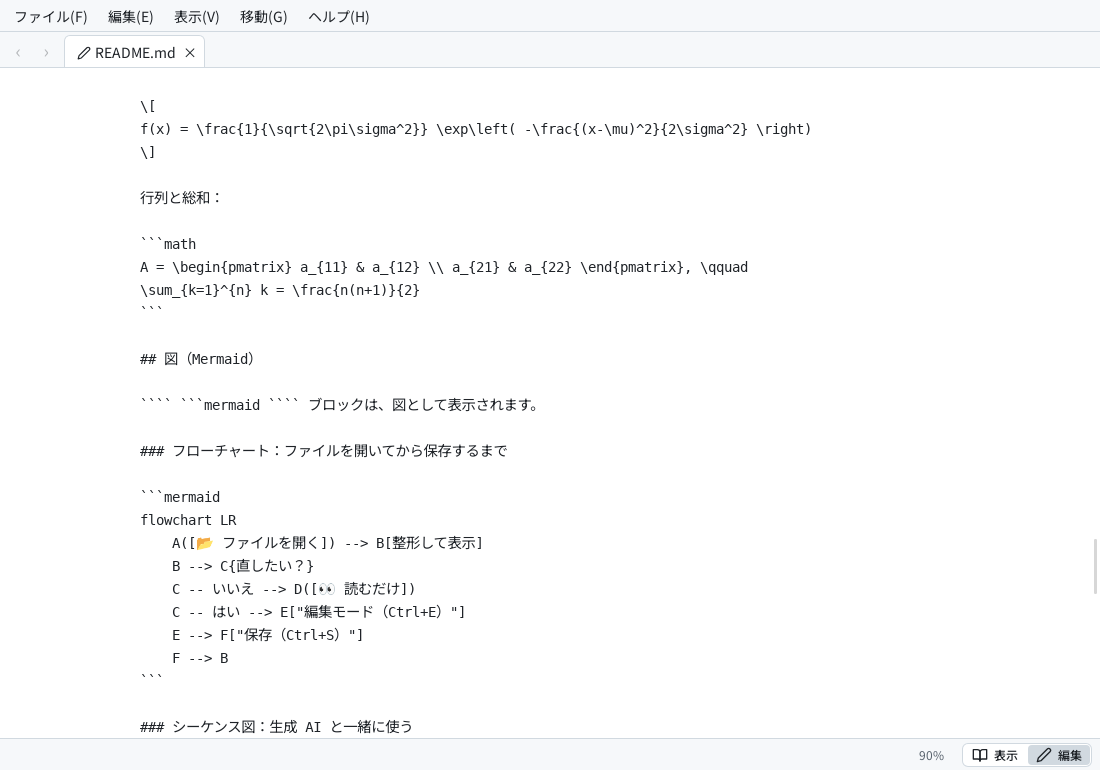
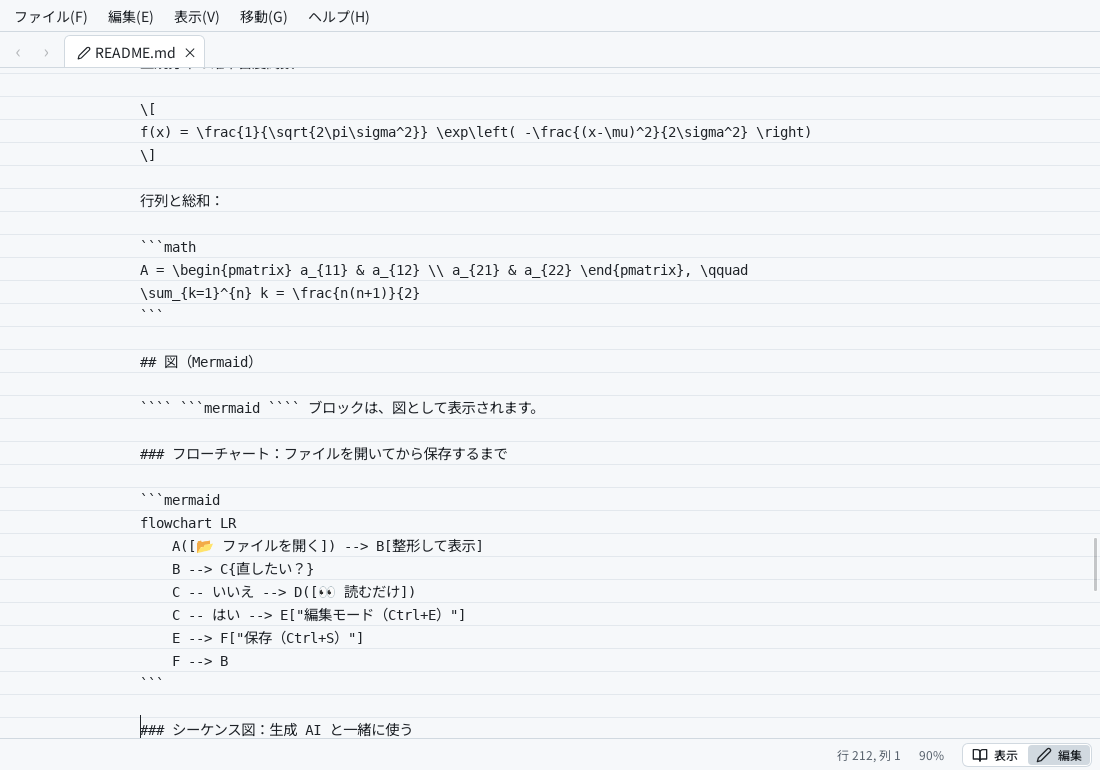
Docs: edit mode look, cursor position and table of contents; new editor screenshots
Claude-Session: https://claude.ai/code/session_014WACe7tbnv69AqTmDkT8nE

diff --git a/README.ja.md b/README.ja.md
@@ -37,10 +37,11 @@ Markdown を書いたり書き直したりするのは生成AIの仕事。mdview
 | メニュー | ファイル・編集・表示・移動・ヘルプ。<kbd>Alt</kbd> または <kbd>F10</kbd> でメニューへ移動、<kbd>Alt</kbd>+<kbd>F</kbd> などで直接開く |
 | 言語 | メニューは日本語と英語。OS の言語設定に合わせて自動で選び、「表示」メニューで切り替えられる（選択は次回も維持） |
 | ヘルプ | <kbd>F1</kbd> でショートカット一覧。「ヘルプ → mdviewer について」でバージョン・作者・ライセンス |
-| 編集モードに切替 | <kbd>Ctrl</kbd>+<kbd>E</kbd> または右下のステータスバーにある「表示 \| 編集」スイッチ（表示に戻すと、編集内容をビューアに反映して表示）。編集中のタブには鉛筆の印が付く |
+| 編集モードに切替 | <kbd>Ctrl</kbd>+<kbd>E</kbd> または右下のステータスバーにある「表示 \| 編集」スイッチ（表示に戻すと、編集内容をビューアに反映して表示）。編集中は背景が薄いグレーになって薄い罫線が入り、ステータスバーにカーソルの行・列を表示する。編集中のタブには鉛筆の印が付く |
 | 保存 | <kbd>Ctrl</kbd>+<kbd>S</kbd>（元ファイルの改行コード CRLF/LF と BOM を維持）。未保存の間はタイトルに `●` |
 | 拡大・縮小 | <kbd>Ctrl</kbd>+ホイール / <kbd>Ctrl</kbd>+<kbd>+</kbd> <kbd>-</kbd>（<kbd>Ctrl</kbd>+<kbd>0</kbd> で 100%）。倍率はステータスバーに表示（クリックで 100%）し、次回も維持 |
 | 自動再読み込み | ファイルが更新されると表示を自動更新（スクロール位置は維持）。手動は <kbd>F5</kbd>。未保存の編集は上書きしない |
+| 目次 | ウィンドウの幅が広いとき（1280px 以上）、文書の見出しを右側に一覧表示する。読んでいる節を強調し、クリックでその見出しへ移動。「表示」メニューで表示／非表示を切り替え（選択は次回も維持） |
 | リンク | `#見出し` は文書内ジャンプ、`other.md` はビューアで開く、`https://` は既定のブラウザで開く |
 | テーマ（ダークモード） | 「表示」メニューで ライト／ダーク を切り替え（選択は次回も維持）。初回起動時は Windows の設定に合わせて自動で選ぶ。図（Mermaid）の色も切り替わる |
 | 日本語フォント | Noto Sans JP を同梱（PC にインストールされていなくても同じ見た目） |
@@ -102,7 +103,7 @@ Markdown を書いたり書き直したりするのは生成AIの仕事。mdview
 | `math` | 有効 | 数式。KaTeX は数式を含む文書を開いたときだけ読み込む |
 | `mermaid` | 有効 | ```` ```mermaid ```` ブロックを図として描画。ライブラリは図を含む文書を開いたときだけ読み込む |
 | `gfm`, `heading-anchors`, `local-images` | 有効 | Markdown の拡張記法、見出しアンカー、相対パス画像 |
-| `menu`, `tabs`, `view`, `editor`, `find`, `theme`, `language`, `help`, `zoom`, `links`, `auto-reload`, `title`, `open-file` | 有効 | 各 UI 機能 |
+| `menu`, `tabs`, `view`, `editor`, `find`, `theme`, `language`, `help`, `zoom`, `toc`, `links`, `auto-reload`, `title`, `open-file` | 有効 | 各 UI 機能 |
 
 設定の変更は次回起動時に反映されます。
 

diff --git a/README.md b/README.md
@@ -37,10 +37,11 @@ The screenshots were taken with the Linux build used for development. On Windows
 | Menus | File, Edit, View, Go and Help. <kbd>Alt</kbd> or <kbd>F10</kbd> moves to the menu bar, <kbd>Alt</kbd>+<kbd>F</kbd> etc. opens a menu directly |
 | Language | Menus in English and Japanese, chosen from your system language and switchable in the **View** menu (remembered) |
 | Help | <kbd>F1</kbd> shows the keyboard shortcuts. **Help → About mdviewer** shows the version, author and license |
-| Edit mode | <kbd>Ctrl</kbd>+<kbd>E</kbd> or the View \| Edit switch at the bottom right, in the status bar (switch back to see your edits formatted). Tabs being edited are marked with a pencil |
+| Edit mode | <kbd>Ctrl</kbd>+<kbd>E</kbd> or the View \| Edit switch at the bottom right, in the status bar (switch back to see your edits formatted). The page turns light gray with faint ruled lines, the status bar shows the cursor line and column, and tabs being edited are marked with a pencil |
 | Save | <kbd>Ctrl</kbd>+<kbd>S</kbd> (keeps the file's line endings, CRLF / LF, and BOM). The title shows `●` while there are unsaved changes |
 | Zoom | <kbd>Ctrl</kbd>+wheel / <kbd>Ctrl</kbd>+<kbd>+</kbd> <kbd>-</kbd> (<kbd>Ctrl</kbd>+<kbd>0</kbd> for 100%). The level is shown in the status bar (click it for 100%) and remembered |
 | Auto reload | Updates the view when the file changes (keeping the scroll position). <kbd>F5</kbd> reloads manually. Unsaved edits are never overwritten |
+| Table of contents | In a wide window (1280 px or more), the headings of the document are listed at the right. The section you are reading is highlighted; click a heading to jump to it. Turn it off in the **View** menu (remembered) |
 | Links | `#heading` jumps within the document, `other.md` opens in mdviewer, `https://` opens in your default browser |
 | Theme (dark mode) | Switch between Light and Dark in the **View** menu (remembered). On the first launch mdviewer picks the one that matches your Windows setting. Diagram (Mermaid) colors follow the theme |
 | Japanese font | Noto Sans JP is bundled, so Japanese text looks the same even if the font is not installed |
@@ -102,7 +103,7 @@ Each plugin can be turned on or off in a settings file. Without the file, everyt
 | `math` | On | Math. KaTeX is loaded only when a document contains math |
 | `mermaid` | On | Draws ```` ```mermaid ```` blocks as diagrams. The library is loaded only when a document contains a diagram |
 | `gfm`, `heading-anchors`, `local-images` | On | Markdown extensions, heading anchors, images with relative paths |
-| `menu`, `tabs`, `view`, `editor`, `find`, `theme`, `language`, `help`, `zoom`, `links`, `auto-reload`, `title`, `open-file` | On | UI features |
+| `menu`, `tabs`, `view`, `editor`, `find`, `theme`, `language`, `help`, `zoom`, `toc`, `links`, `auto-reload`, `title`, `open-file` | On | UI features |
 
 Changes take effect the next time mdviewer starts.
 

diff --git a/docs/manual/ja/README.md b/docs/manual/ja/README.md
@@ -73,6 +73,7 @@ flowchart LR
 
 <kbd>Ctrl</kbd>+<kbd>E</kbd>（または右下のスイッチの「編集」）で編集モードになります。
 もう一度押すと、編集した内容で表示し直します。<kbd>Ctrl</kbd>+<kbd>S</kbd> で保存します。
+編集中は、背景が薄いグレーになって薄い罫線が入り、ステータスバーにカーソルの行と列が表示されます。
 
 リストを書くときは、<kbd>Enter</kbd> で次の項目が自動で続きます。
 
@@ -99,6 +100,7 @@ flowchart LR
 
 - 🔍 **検索**：<kbd>Ctrl</kbd>+<kbd>F</kbd>。<kbd>Enter</kbd> / <kbd>Shift</kbd>+<kbd>Enter</kbd>（または <kbd>F3</kbd> / <kbd>Shift</kbd>+<kbd>F3</kbd>）で次／前へ。<kbd>Esc</kbd> で閉じる
 - 🔎 **拡大・縮小**：<kbd>Ctrl</kbd>+ホイール、<kbd>Ctrl</kbd>+<kbd>+</kbd> / <kbd>Ctrl</kbd>+<kbd>-</kbd>、<kbd>Ctrl</kbd>+<kbd>0</kbd> で 100%。倍率はステータスバーに表示され、次回も保たれます
+- 📑 **目次**：ウィンドウの幅が広いとき（1280px 以上）は、見出しの一覧が右側に出ます。読んでいる節が強調され、クリックするとその見出しへ移動します。「表示 → 目次を表示」で表示／非表示を切り替えられます（選択は次回も保たれます）
 - 🌐 **言語**：メニューは日本語と英語。OS の設定に合わせて自動で選びます。「表示 → 言語」で切り替えられます
 - ❓ **ヘルプ**：<kbd>F1</kbd> でショートカット一覧。「ヘルプ → mdviewer について」でバージョンを確認できます
 - 🌙 **テーマ（ダークモード）**：「表示」メニューで、ライトとダークを切り替えられます。初めて起動したときは、Windows の設定（ライト／ダーク）に合わせて自動で選びます。選んだテーマは次回も保たれます

diff --git a/docs/manual/README.md b/docs/manual/README.md
@@ -73,6 +73,7 @@ Going back also restores the scroll position.
 
 <kbd>Ctrl</kbd>+<kbd>E</kbd> (or **Edit** in the switch at the bottom right) switches to edit mode.
 Press it again to see your edits formatted. <kbd>Ctrl</kbd>+<kbd>S</kbd> saves.
+While editing, the page is light gray with faint ruled lines, and the status bar shows the line and column of the cursor.
 
 When you write a list, <kbd>Enter</kbd> continues it for you:
 
@@ -99,6 +100,7 @@ When you write a list, <kbd>Enter</kbd> continues it for you:
 
 - 🔍 **Find**: <kbd>Ctrl</kbd>+<kbd>F</kbd>. <kbd>Enter</kbd> / <kbd>Shift</kbd>+<kbd>Enter</kbd> (or <kbd>F3</kbd> / <kbd>Shift</kbd>+<kbd>F3</kbd>) for the next / previous match. <kbd>Esc</kbd> closes
 - 🔎 **Zoom**: <kbd>Ctrl</kbd>+wheel, <kbd>Ctrl</kbd>+<kbd>+</kbd> / <kbd>Ctrl</kbd>+<kbd>-</kbd>, and <kbd>Ctrl</kbd>+<kbd>0</kbd> for 100%. The zoom level is shown in the status bar and remembered
+- 📑 **Table of contents**: in a wide window (1280 px or more), the headings are listed at the right. The section you are reading is highlighted; click a heading to jump to it. Turn it on or off in **View → Table of Contents** (remembered)
 - 🌐 **Language**: the menus are in Japanese and English, chosen from your system language. Change it in **View → Language**
 - ❓ **Help**: <kbd>F1</kbd> shows the keyboard shortcuts. **Help → About mdviewer** shows the version
 - 🌙 **Theme (dark mode)**: switch between Light and Dark in the **View** menu. On the first launch mdviewer picks the one that matches your Windows setting. Your choice is remembered

diff --git a/CHANGELOG.md b/CHANGELOG.md
@@ -13,6 +13,24 @@
 
 ## [Unreleased]
 
+### Added
+- Table of contents at the right of the document in wide windows (1280 px or more): the level 2 and 3 headings, with the section being read highlighted; click to jump. On by default; View menu → Table of Contents turns it off (remembered). The document itself does not move
+- While editing, the status bar shows the cursor line and column
+
+### Changed
+- Edit mode looks different from the view: a light gray page with faint ruled lines (in both themes)
+
+---
+
+**日本語**
+
+**追加**
+- ウィンドウの幅が広いとき（1280px 以上）、文書の右に目次を表示する。見出し（2・3 段目）を並べ、読んでいる節を強調し、クリックで移動する。最初から表示し、「表示 → 目次を表示」で消せる（選択は次回も維持）。本文の位置と幅は変わらない
+- 編集中は、ステータスバーにカーソルの行・列を表示する
+
+**変更**
+- 編集モードを表示モードと見分けやすくした。背景を薄いグレーにし、薄い罫線を入れる（ライト・ダークとも）
+
 ## [0.2.2] - 2026-09-29
 
 The installer is now also available as a zip, the installer names its publisher, and the README states the code signing policy and privacy.
